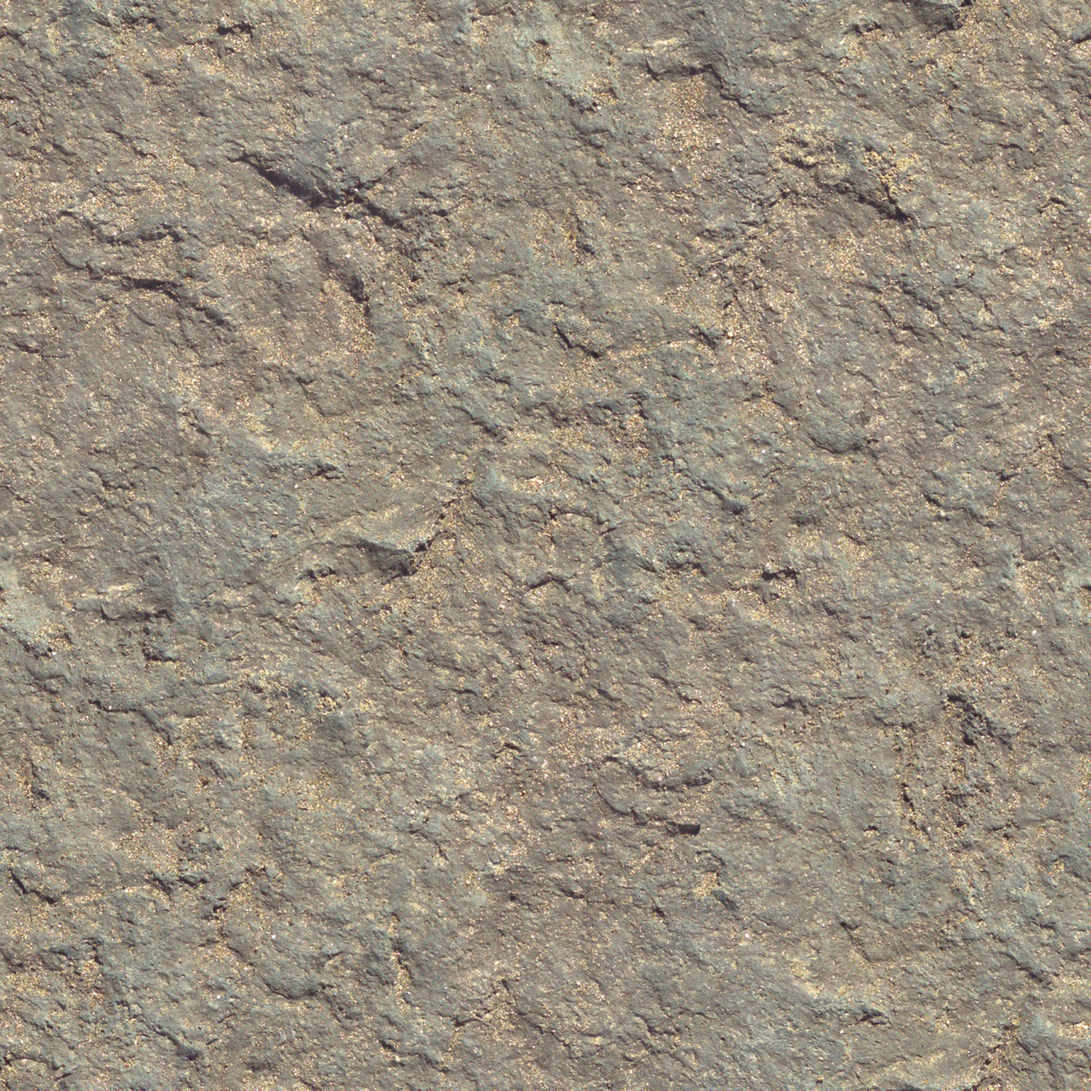
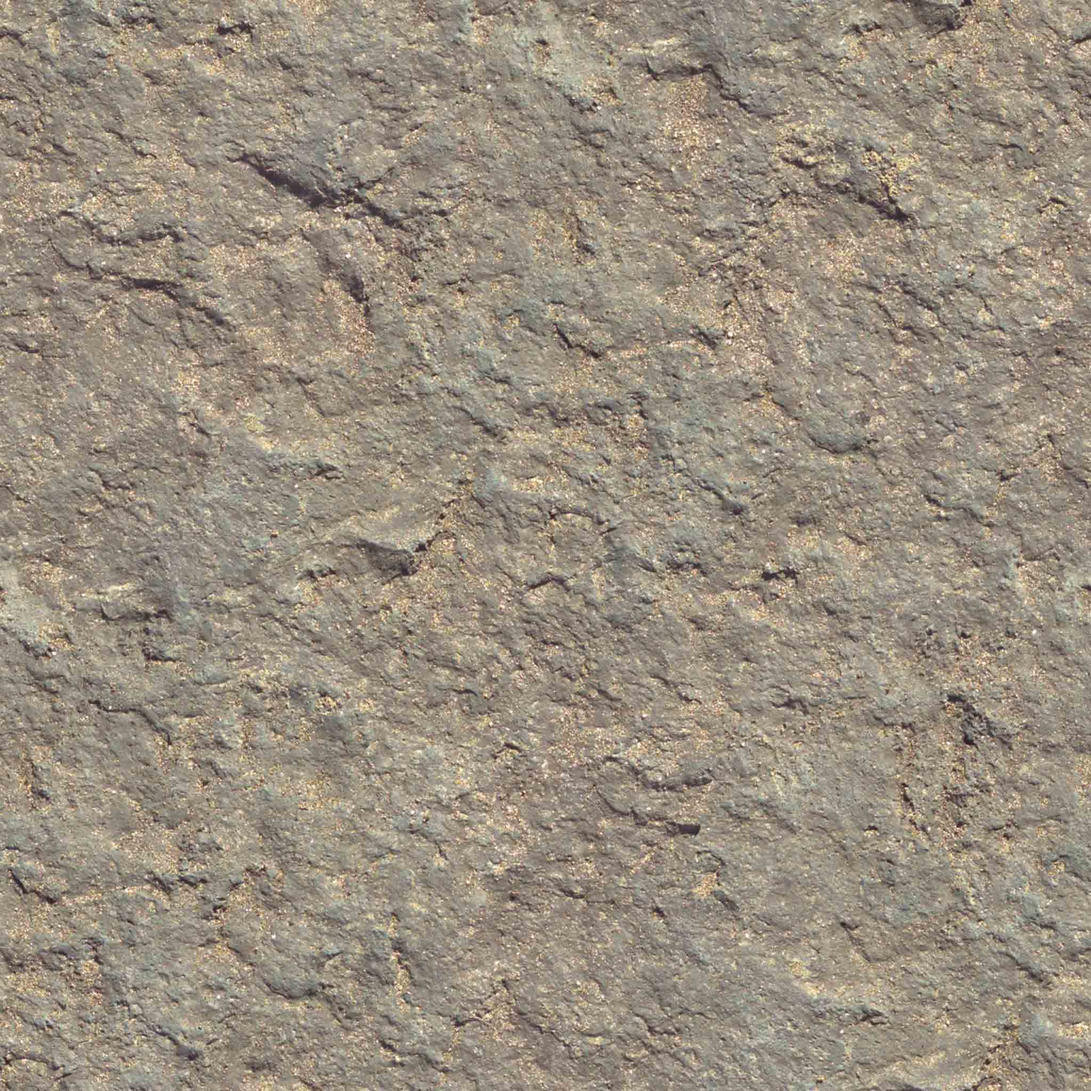
images compression

diff --git a/src/environment.js b/src/environment.js
@@ -126,7 +126,7 @@ var HL = {
     sea:"img/white2x2.gif",
     flora:"img/white2x2.gif",
     fauna:"img/white2x2.gif",
-    water:"img/waternormals5.png",//wn5
+    water:"img/waternormals5.jpg",//wn5
 
     //for models
     whale:"3dm/BL_WHALE/BL_WHALE.jpg",
